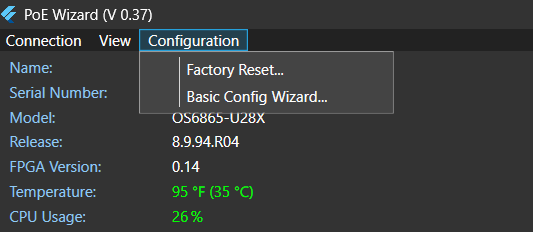
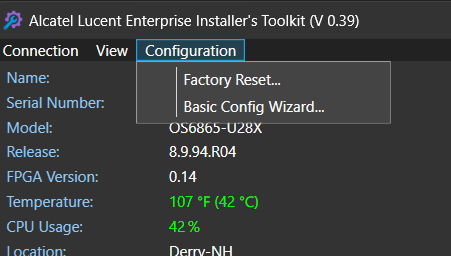
added config wizard to help

diff --git a/Resources/Help/help-light.html b/Resources/Help/help-light.html
@@ -44,14 +44,28 @@
     </style>
 </head>
 <body>
-    <p class="header">Power over Ethernet (PoE) Wizard Help</p>
+    <p class="header">Alcatel-Lucent Enterprise Installer's Toolkit Help</p>
     <p>
         Power over Ethernet (PoE) is a technology that allows Ethernet cables to transmit both data and electrical power to devices over a single network cable.
         This simplifies the installation of networked devices such as wireless access points, IP cameras, VoIP phones, and other network devices by eliminating
         the need for separate power supplies.
         Before we start, the minimum AOS supported by this Wizard is 8.9 R1. Switches running AOS 5.X or 6.X are not supported.
-        The PoE Wizard attempts to diagnose and repair PoE devices that will not boot.
+        The Application attempts to diagnose and repair PoE devices that will not boot.
     </p>
+    <p class="topic">Help Topoics</p>
+    <ul>
+        <li><a href="#connection">Connectig to a Switch</a></li>
+        <li><a href="#wizard">Running the PoE Wizard</a></li>
+        <li><a href="#cfg-wiz">Configuration Wizard</a></li>
+        <li><a href="#faq">Frequently Asked Questions</a></li>
+        <li><a href="#support">Obtaining more support</a></li>
+        <li><a href="#std">PoE Standards</a></li>
+        <li><a href="#hp">High Power PoE</a></li>
+        <li><a href="#neg">PoE Detection and Class Negotiation</a></li>
+        <li><a href="#lldp">Role of LLDP in PoE</a></li>
+        <li><a href="#poe-tech">Additional Technologies Related to PoE</a></li>
+    </ul>
+    <p id="connection" class="topic">Connecting to a Switch</p>
     <p> Start by clicking Connection at the upper left of the tool and select Switch.</p>
     <img src="connection.png" />
     <p>
@@ -60,7 +74,7 @@
     </p>
     <img src="login.png" />
     <p>
-        Upon successful completion of the login, the PoE Wizard will gather important information about the switch
+        Upon successful completion of the login, the Application will gather important information about the switch
         including the serial number, model, software release and more.
     </p>
     <img src="connected.png" />
@@ -96,7 +110,7 @@
         <li>Conflict: Two PoE ports have been connected and failed to disable PoE on one port.</li>
         <li>NoPoe: Port doesn't support PoE.</li>
     </ul>
-    <p class="title">Running the Wizard on a Port</p>
+    <p id="wizard" class="title">Running the Wizard on a Port</p>
     <p>
         The Wizard attempts to repair a PoE device that is physically connected to an ALE switch but not booting.
         In this example a 3rd party PoE splitter was connected to port 48 which supplies 802.3bt power and an IP camera that
@@ -121,11 +135,66 @@
         any extra information such as name, IP address, or firmware.
     </p>
     <img src="wiz-result.png" />
-    <p>Exiting the PoE Wizard will prompt you to save your changes. Click OK and wait for it to be completed. This can take some time</p>
+    <p>Exiting the Application will prompt you to save your changes. Click OK and wait for it to be completed. This can take some time</p>
     <img src="save-prompt.png" />
     <br />
     <img src="save-progress.png" />
-    <p class="header">Frequently Asked Questions</p>
+    <p id="cfg-wiz" class="header">Configuration Wizard</p>
+    <p>
+        If you need to reconfigure your switch, starting from scratch and adding some basic recommended setup,
+        you can do so by going to the Configuration menu option.
+    </p>
+    <img src="config-wiz.png" />
+    <p class="topic">Factory Reset</p>
+    <p>
+        Use this options to reset your switch configuration to factory default. The wizard will completely erase the switch configuration
+        and will set vlan 1 IP inteface with the same IP address you used to connect to the switch originally, so you can reconnect to
+        it with the application after the switch reboots. You can then proceed to run the congif wizard to add some addition configuration.
+    </p>
+    <p class="topic">Basic Config Wizard</p>
+    <p>The wizard presents a few configuration windows, you can navigate back and forth using the "Next >" and "< Back" buttons.</p>
+    <p>The first window lets you configure the management IP address and netmask, as well as some switch system parameters</p>
+    <img src="cfg-wiz-sys.png" />
+    <p>
+        Clicking "Next >" will nagivate to the next window where you can configure the Default Gateway, DNS and NTP servers.
+        When NTP option is enabled, you can select the switch's timezone from the drop-down menu.
+    </p>
+    <img src="cfg-wiz-srv.png" />
+    <p>
+        Click "Next >" to navigate to the next window, which allows you to configure some features, like Disabling insecure protocols
+        (telnet, ftp) enable SSH, etc. Note that if you toggle the Enable PoE switch off, you will be prompted to confirm your action,
+        because it will turn off power on all PoE ports on the switch. If you confirm, the operation will take effect after you press
+        the Submit button.
+    </p>
+    <img src="cfg-wiz-feature.png" />
+    <p>The last page on the configuration wizard allows you to configure the switch to send SNMP traps to trap receivers</p>
+    <img src="cfg-wiz-snmp.png" />
+    <p>To add an snmp user, click the "+" button to the left of the table's '"Name" column</p>
+    <img src="cfg-wiz-add-user.png" />
+    <p>Enter the username and password and click Create</p>
+    <p>To delete a user, click the "x" button on the left of the username on the table.</p>
+    <p>If you are using SNMP v2, you can create a community by clicking the "+" sign on the Communities table</p>
+    <img src="cfg-wiz-add-comm.png" />
+    <p>
+        Since on the ALE OmniWwitches an SNMP community is associated with a user, enter the community name and select a previously
+        created user from the drop-down menu, before clicking Create.
+    </p>
+    <p>To delete a community, click the "x" button to the left of the community name on the table</p>
+    <p>To add an SNMP Trap Receiver, click the "+" button to the left of the Ip Address column on the Trap Receivers table</p>
+    <img src="cfg-wiz-recv.png" />
+    <p>
+        Select the required SNMP Version (v2 or v3) and enter the IP Address of the trap receiver.
+        If you selected v2, select the community from the drop-down menu, if you selected v3, select the user from the drop-down menu.
+    </p>
+    <p>
+        Note that, to simplify the configuration, the wizard sets the Authentication Protocol as MD5 and the Encryption Protocol
+        as DES, and that's what needs to be configured on the receiver side. The primary key assiciated to the encryption protocol is
+        configured the same as the user's password.
+    </p>
+    <p>
+        After your are done with the configuration, click Submit for the wizard to apply the configuration to the OmniSwitch.
+    </p>
+    <p id="faq" class="header">Frequently Asked Questions</p>
     <p class="title">How do I know if my switch supports PoE?  </p>
     <p>ALE PoE capable switches will have a P in the model number.</p>
     <p class="title">How do I increase the PoE port maximum?</p>
@@ -148,19 +217,19 @@
     <p>802.bt must be supported and enabled on the switch for auto class detection to function correctly.</p>
     <p class="title">How do I accomplish long term monitoring of my ALE network?</p>
     <p>
-        The PoE Wizard is designed to assist with new installations or a major refresh. Long term monitoring of ALE networks
+        The Application is designed to assist with new installations or a major refresh. Long term monitoring of ALE networks
         is available with our OmniVista Network Management System and plugins for either Milestone or Genetec:
         https://www.al-enterprise.com/en/products/network-management-security
     </p>
     <p class="title">Are there any more generalized network scanning tools available?</p>
     <p>
-        The PoE Wizard is designed to assist only with PoE capable devices connected to an ALE switch.
+        The Application is designed to assist only with PoE capable devices connected to an ALE switch.
         There are free to use general networking scanning tools available on the Internet, however these
         are not supplied or supported by Alcatel Lucent Enterprise and ALE assumes no liability for their use.
         Advanced IP Scanner can discover networked devices: https://www.advanced-ip-scanner.com/
         Nmap can scan individual devices: https://nmap.org/downloadad
     </p>
-    <p class="header">Obtaining more support</p>
+    <p id="support" class="header">Obtaining more support</p>
     <p>
         Complete Alcatel Lucent Enterprise AOS manuals can be downloaded, and no login or registration is required:
         https://www.spacewalkers.com/feed/article/release-note-aos-89R4
@@ -171,7 +240,7 @@
         Learn more about Alcatel Lucent Enterprise’s commitment to the Video Surveillance industry including ultra rapid switch
         configurations using Lighting Config, Milestone and Genetec plugins and more at: https://linktr.ee/Alcatel.Lucent.Enterprise
     </p>
-    <p class="header">PoE Standards</p>
+    <p id="std" class="header">PoE Standards</p>
     <p>PoE standards are defined by the Institute of Electrical and Electronics Engineers (IEEE) and include</p>
     <ul>
         <li>
@@ -203,14 +272,14 @@
             </ul>
         </li>
     </ul>
-    <p class="header">High Power PoE</p>
+    <p id="hp" class="header">High Power PoE</p>
     <p>
         ALE 6860E and 6865 switches provide intermediate power levels, specifically between 60 and 75 watts.
         They were designed before the finalization of IEEE 802.3bt standards, cater to devices that require
         more power than PoE+ but less than the highest levels of PoE++. The 4-pair option must be set to
         deliver power High PoE, similar to Type 3 and Type 4 and the wizard will set this for you.
     </p>
-    <p class="header">PoE Detection and Class Negotiation</p>
+    <p id="neg" class="header">PoE Detection and Class Negotiation</p>
     <p class="title">PoE Detection</p>
     <p>
         Before delivering power, the switch must ensure that the connected device is PoE-compatible to prevent damage
@@ -258,7 +327,7 @@
         <li>Classes 5 to 8: Defined in IEEE 802.3bt for higher power levels, supporting up to 100 watts.</li>
     </ul>
     <img src="poe-table.png" />
-    <p>The PoE Wizard will display both PoE class and the maximum wattage supported by that class for you.</p>
+    <p>The Application will display both PoE class and the maximum wattage supported by that class for you.</p>
     <p class="title">Negotiation Process</p>
     <ul>
         <li>
@@ -280,7 +349,7 @@
         </li>
     </ul>
     <p>You can read more about Power over Ethernet on Wikipedia: https://en.wikipedia.org/wiki/Power_over_Ethernet</p>
-    <p class="header">Role of LLDP in PoE</p>
+    <p id="lldp" class="header">Role of LLDP in PoE</p>
     <p>
         The Link Layer Discovery Protocol (LLDP) is an industry-standard, vendor-neutral protocol used by network devices
         to advertise information about themselves to other devices on the same network. This information includes device
@@ -369,7 +438,7 @@
         You can read more about LLDP on the Wikipedia page: https://en.wikipedia.org/wiki/LLDP and a nice EE Times tutorial
         can be found here: https://www.eetimes.com/tutorial-on-the-link-layer-discovery-protocol/
     </p>
-    <p class="header">Additional Technologies Related to PoE</p>
+    <p id="poe-tech" class="header">Additional Technologies Related to PoE</p>
     <p class="title">lanpower power-over-hdmi</p>
     <p>
         The ALE OS6860E-P24Z8 has a special PoE setting that may be required in rare cases.

diff --git a/Resources/Help/help-dark.html b/Resources/Help/help-dark.html
@@ -2,7 +2,7 @@
 <html>
 <head>
     <meta charset="utf-8" />
-    <title>PoE Wizard Help</title>
+    <title>Alcatel-Lucent Enterprise Installer's Tookit Help Help</title>
     <style type="text/css">
         body {
             font-family: sans-serif;
@@ -44,18 +44,19 @@
     </style>
 </head>
 <body>
-    <p class="header">Power over Ethernet (PoE) Wizard Help</p>
+    <p class="header">Alcatel-Lucent Enterprise Installer's Toolkit Help</p>
     <p>
         Power over Ethernet (PoE) is a technology that allows Ethernet cables to transmit both data and electrical power to devices over a single network cable. 
         This simplifies the installation of networked devices such as wireless access points, IP cameras, VoIP phones, and other network devices by eliminating 
         the need for separate power supplies.
         Before we start, the minimum AOS supported by this Wizard is 8.9 R1. Switches running AOS 5.X or 6.X are not supported.
-        The PoE Wizard attempts to diagnose and repair PoE devices that will not boot. 
+        The Application attempts to diagnose and repair PoE devices that will not boot. 
     </p>
     <p class="topic">Help Topoics</p>
     <ul>
         <li><a href="#connection">Connectig to a Switch</a></li>
-        <li><a href="#wizard">Running the Wizard</a></li>
+        <li><a href="#wizard">Running the PoE Wizard</a></li>
+        <li><a href="#cfg-wiz">Configuration Wizard</a></li>
         <li><a href="#faq">Frequently Asked Questions</a></li>
         <li><a href="#support">Obtaining more support</a></li>
         <li><a href="#std">PoE Standards</a></li>
@@ -73,7 +74,7 @@
     </p>
     <img src="login.png" />
     <p>
-        Upon successful completion of the login, the PoE Wizard will gather important information about the switch 
+        Upon successful completion of the login, the Application will gather important information about the switch 
         including the serial number, model, software release and more.
     </p>
     <img src="connected.png" />
@@ -134,7 +135,7 @@
         any extra information such as name, IP address, or firmware.
     </p>
     <img src="wiz-result.png" />
-    <p>Exiting the PoE Wizard will prompt you to save your changes. Click OK and wait for it to be completed. This can take some time</p>
+    <p>Exiting the Application will prompt you to save your changes. Click OK and wait for it to be completed. This can take some time</p>
     <img src="save-prompt.png" />
     <br />
     <img src="save-progress.png" />
@@ -153,8 +154,46 @@
     <p class="topic">Basic Config Wizard</p>
     <p>The wizard presents a few configuration windows, you can navigate back and forth using the "Next >" and "< Back" buttons.</p>
     <p>The first window lets you configure the management IP address and netmask, as well as some switch system parameters</p>
-    <img src="cfg-wiz-sys" />
-
+    <img src="cfg-wiz-sys.png" />
+    <p>
+        Clicking "Next >" will nagivate to the next window where you can configure the Default Gateway, DNS and NTP servers. 
+        When NTP option is enabled, you can select the switch's timezone from the drop-down menu.
+    </p>
+    <img src="cfg-wiz-srv.png" />
+    <p>
+        Click "Next >" to navigate to the next window, which allows you to configure some features, like Disabling insecure protocols 
+        (telnet, ftp) enable SSH, etc. Note that if you toggle the Enable PoE switch off, you will be prompted to confirm your action, 
+        because it will turn off power on all PoE ports on the switch. If you confirm, the operation will take effect after you press 
+        the Submit button.
+    </p>
+    <img src="cfg-wiz-feature.png" />
+    <p>The last page on the configuration wizard allows you to configure the switch to send SNMP traps to trap receivers</p>
+    <img src="cfg-wiz-snmp.png" />
+    <p>To add an snmp user, click the "+" button to the left of the table's '"Name" column</p>
+    <img src="cfg-wiz-add-user.png" />
+    <p>Enter the username and password and click Create</p>
+    <p>To delete a user, click the "x" button on the left of the username on the table.</p>
+    <p>If you are using SNMP v2, you can create a community by clicking the "+" sign on the Communities table</p>
+    <img src="cfg-wiz-add-comm.png" />
+    <p>
+        Since on the ALE OmniWwitches an SNMP community is associated with a user, enter the community name and select a previously
+        created user from the drop-down menu, before clicking Create.
+    </p>
+    <p>To delete a community, click the "x" button to the left of the community name on the table</p>
+    <p>To add an SNMP Trap Receiver, click the "+" button to the left of the Ip Address column on the Trap Receivers table</p>
+    <img src="cfg-wiz-recv.png" />
+    <p>
+        Select the required SNMP Version (v2 or v3) and enter the IP Address of the trap receiver.
+        If you selected v2, select the community from the drop-down menu, if you selected v3, select the user from the drop-down menu.
+    </p>
+    <p>
+        Note that, to simplify the configuration, the wizard sets the Authentication Protocol as MD5 and the Encryption Protocol 
+        as DES, and that's what needs to be configured on the receiver side. The primary key assiciated to the encryption protocol is
+        configured the same as the user's password.
+    </p>
+    <p>
+        After your are done with the configuration, click Submit for the wizard to apply the configuration to the OmniSwitch.
+    </p>
     <p id="faq" class="header">Frequently Asked Questions</p>
     <p class="title">How do I know if my switch supports PoE?  </p>
     <p>ALE PoE capable switches will have a P in the model number.</p>
@@ -178,13 +217,13 @@
     <p>802.bt must be supported and enabled on the switch for auto class detection to function correctly.</p>
     <p class="title">How do I accomplish long term monitoring of my ALE network?</p>
     <p>
-        The PoE Wizard is designed to assist with new installations or a major refresh. Long term monitoring of ALE networks 
+        The Application is designed to assist with new installations or a major refresh. Long term monitoring of ALE networks 
         is available with our OmniVista Network Management System and plugins for either Milestone or Genetec: 
         https://www.al-enterprise.com/en/products/network-management-security
     </p>
     <p class="title">Are there any more generalized network scanning tools available?</p>
     <p>
-        The PoE Wizard is designed to assist only with PoE capable devices connected to an ALE switch.  
+        The Application is designed to assist only with PoE capable devices connected to an ALE switch.  
         There are free to use general networking scanning tools available on the Internet, however these 
         are not supplied or supported by Alcatel Lucent Enterprise and ALE assumes no liability for their use.
         Advanced IP Scanner can discover networked devices: https://www.advanced-ip-scanner.com/
@@ -288,7 +327,7 @@
         <li>Classes 5 to 8: Defined in IEEE 802.3bt for higher power levels, supporting up to 100 watts.</li>
     </ul>
     <img src="poe-table.png" />
-    <p>The PoE Wizard will display both PoE class and the maximum wattage supported by that class for you.</p>
+    <p>The Application will display both PoE class and the maximum wattage supported by that class for you.</p>
     <p class="title">Negotiation Process</p>
     <ul>
         <li>

diff --git a/Components/AboutBox.xaml.cs b/Components/AboutBox.xaml.cs
@@ -11,10 +11,11 @@ namespace PoEWizard.Components
     /// </summary>
     public partial class AboutBox : Window
     {
-        private string description = "This application allows you to troubleshoot PoE issues on an Alcatel-Lucent Enterprise OmniSwitch®, " +
-            "equipped with AOS 8 version.\nThe application communicates with the switch via REST API, to gather information on the power " +
-            "supplies and PoE ports, and allows the user to perform some configuration changes to mitigate common PoE issues. " +
-            "In case the wizard is unable to fix the problem, it allows the user to collect relevant information to be sent to TAC.\r\n";
+        private string description = "This application allows you to apply basic cocnfiguration and troubleshoot PoE issues on an " + 
+            "Alcatel-Lucent Enterprise OmniSwitch®, equipped with AOS 8 version.\nThe application communicates with the switch via " + 
+            "REST API, to gather information on the power supplies and PoE ports, and allows the user to perform some configuration " + 
+            "changes to mitigate common PoE issues. In case the wizard is unable to fix the problem, it allows the user to collect " + 
+            "relevant information to be sent to TAC.\r\n";
 
         private string disclamer = "\r\nPermission to use, copy, modify, and distribute this source code, product, " +
             "and its documentation without a fee and without a signed license agreement is hereby granted, provided that the copyright notice, this " +

diff --git a/Components/CfgWizPage3.xaml.cs b/Components/CfgWizPage3.xaml.cs
@@ -43,7 +43,7 @@ namespace PoEWizard.Components
                     };
                     if (dlg.ShowDialog() == false)
                     {
-                        cb.IsChecked = false;
+                        cb.IsChecked = !cb.IsChecked;
                     }
                 }
             }
